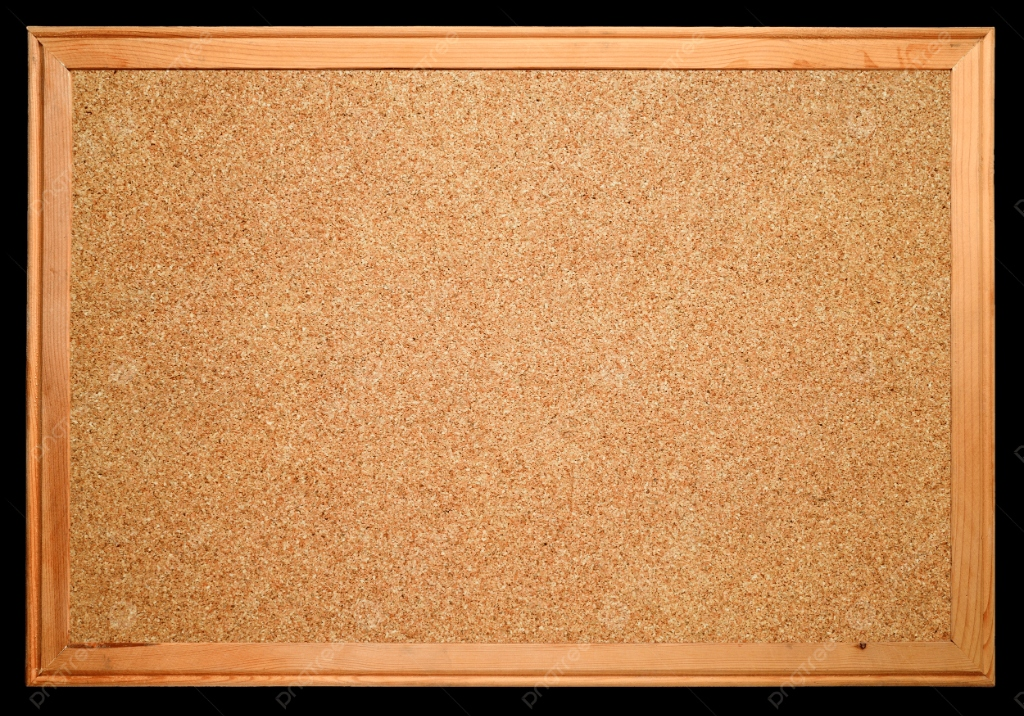
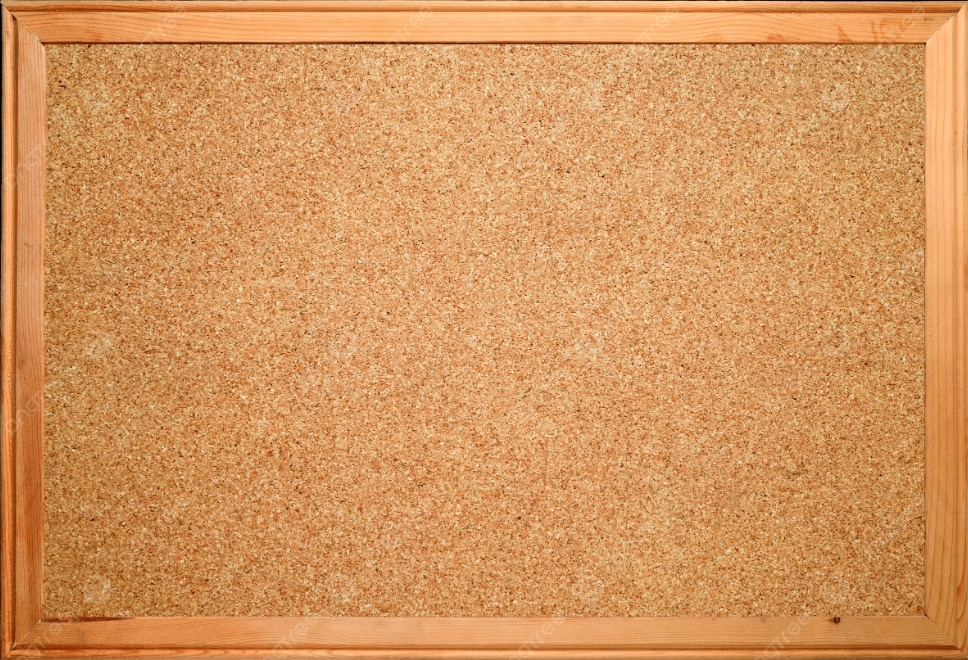
fix(ui): remove outer black margins from corkboard photo and apply fixed inset-0 full coverage

diff --git a/client/src/App.jsx b/client/src/App.jsx
@@ -114,16 +114,20 @@ function App() {
     <div
       ref={wallRef}
       onClick={handleWallClick}
-      style={{
-        backgroundImage: `url(${corkboardBg})`,
-        backgroundSize: 'cover',
-        backgroundPosition: 'center center',
-        backgroundRepeat: 'no-repeat',
-        backgroundAttachment: 'fixed',
-        backgroundColor: '#0c0805'
-      }}
-      className="relative min-h-screen w-screen text-slate-100 overflow-x-hidden overflow-y-auto select-none cursor-crosshair"
+      className="relative min-h-screen w-full text-slate-100 select-none cursor-crosshair overflow-x-hidden"
     >
+      {/* 100% Fullscreen Fixed Corkboard Background Layer */}
+      <div
+        className="fixed inset-0 z-0 pointer-events-none"
+        style={{
+          backgroundImage: `url(${corkboardBg})`,
+          backgroundSize: 'cover',
+          backgroundPosition: 'center center',
+          backgroundRepeat: 'no-repeat',
+          backgroundColor: '#120a06'
+        }}
+      />
+
       {/* Toast Notification */}
       <Toast toast={toast} onClose={closeToast} />
 
@@ -170,8 +174,8 @@ function App() {
         />
       )}
 
-      {/* Corkboard Canvas with Sticky Notes */}
-      <main className="relative min-h-screen w-full pt-20 pb-28 px-4 sm:px-8">
+      {/* Content Layer (Over the fixed corkboard) */}
+      <main className="relative z-10 min-h-screen w-full pt-20 pb-28 px-4 sm:px-8">
         {/* Empty state hint */}
         {posts.length === 0 && !loading && (
           <div className="absolute inset-0 flex flex-col items-center justify-center pointer-events-none text-amber-950/80">

diff --git a/client/src/index.css b/client/src/index.css
@@ -4,23 +4,15 @@
   color-scheme: dark;
 }
 
-body {
+html, body, #root {
   margin: 0;
+  padding: 0;
+  width: 100%;
   min-height: 100vh;
-  background-color: #0c0805;
+  background-color: #120a06;
   color: #1e293b;
   font-family: -apple-system, BlinkMacSystemFont, 'Segoe UI', Roboto, Helvetica, Arial, sans-serif;
   overflow-x: hidden;
-}
-
-/* Authentic Corkboard (Mantar Pano) background using uploaded frame image */
-.corkboard-bg {
-  background-color: #0c0805;
-  background-image: url('/corkboard.jpg');
-  background-size: cover;
-  background-position: center center;
-  background-repeat: no-repeat;
-  background-attachment: fixed;
 }
 
 /* Authentic physical paper shadow */
